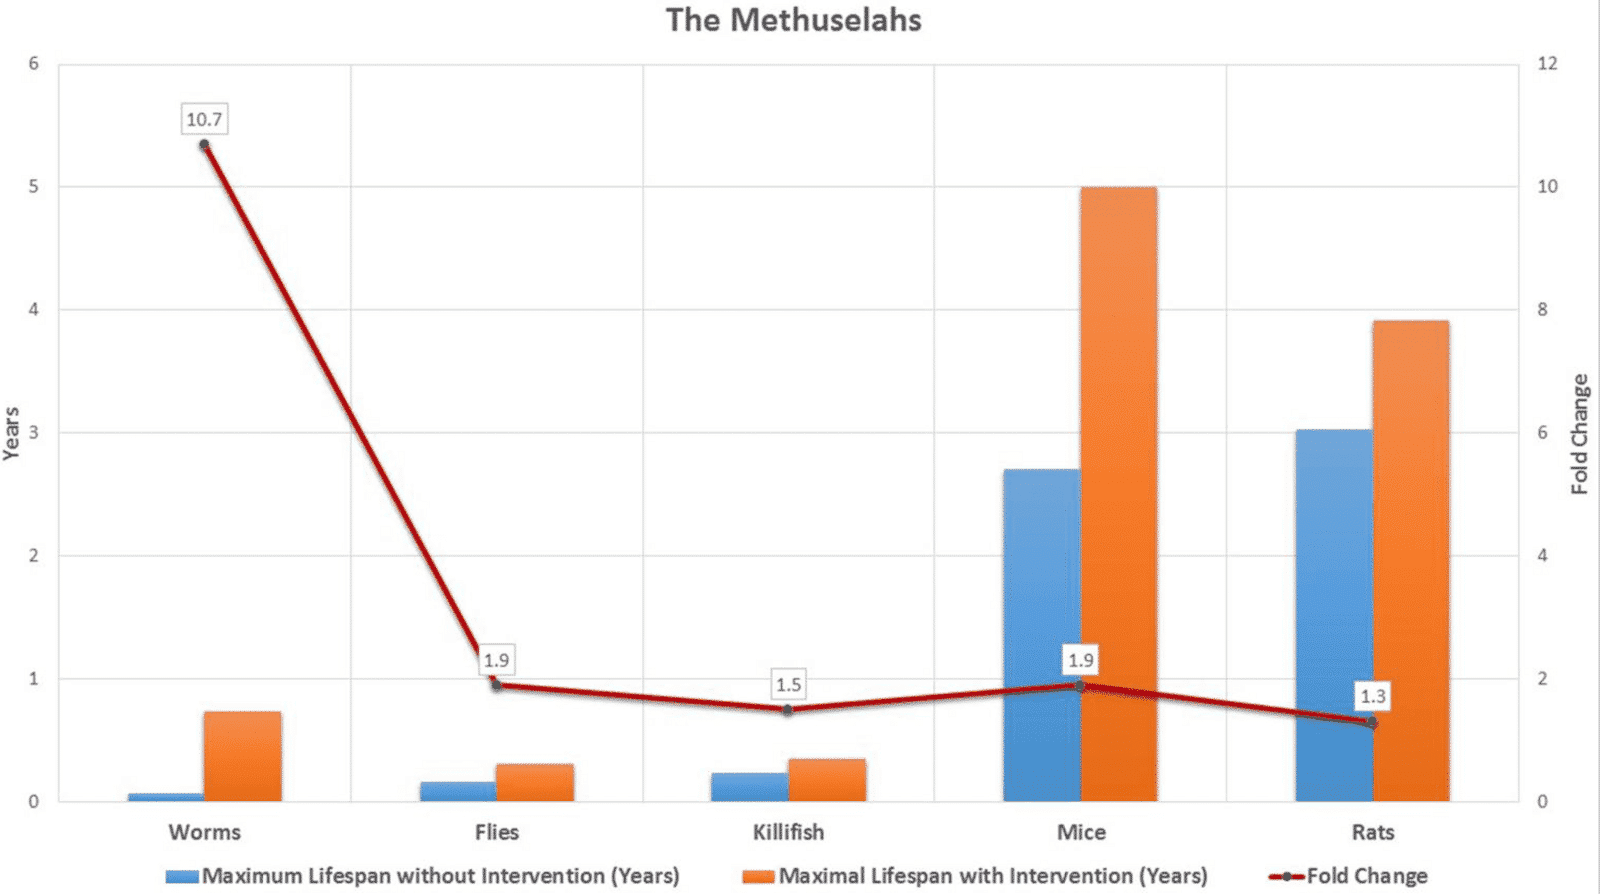
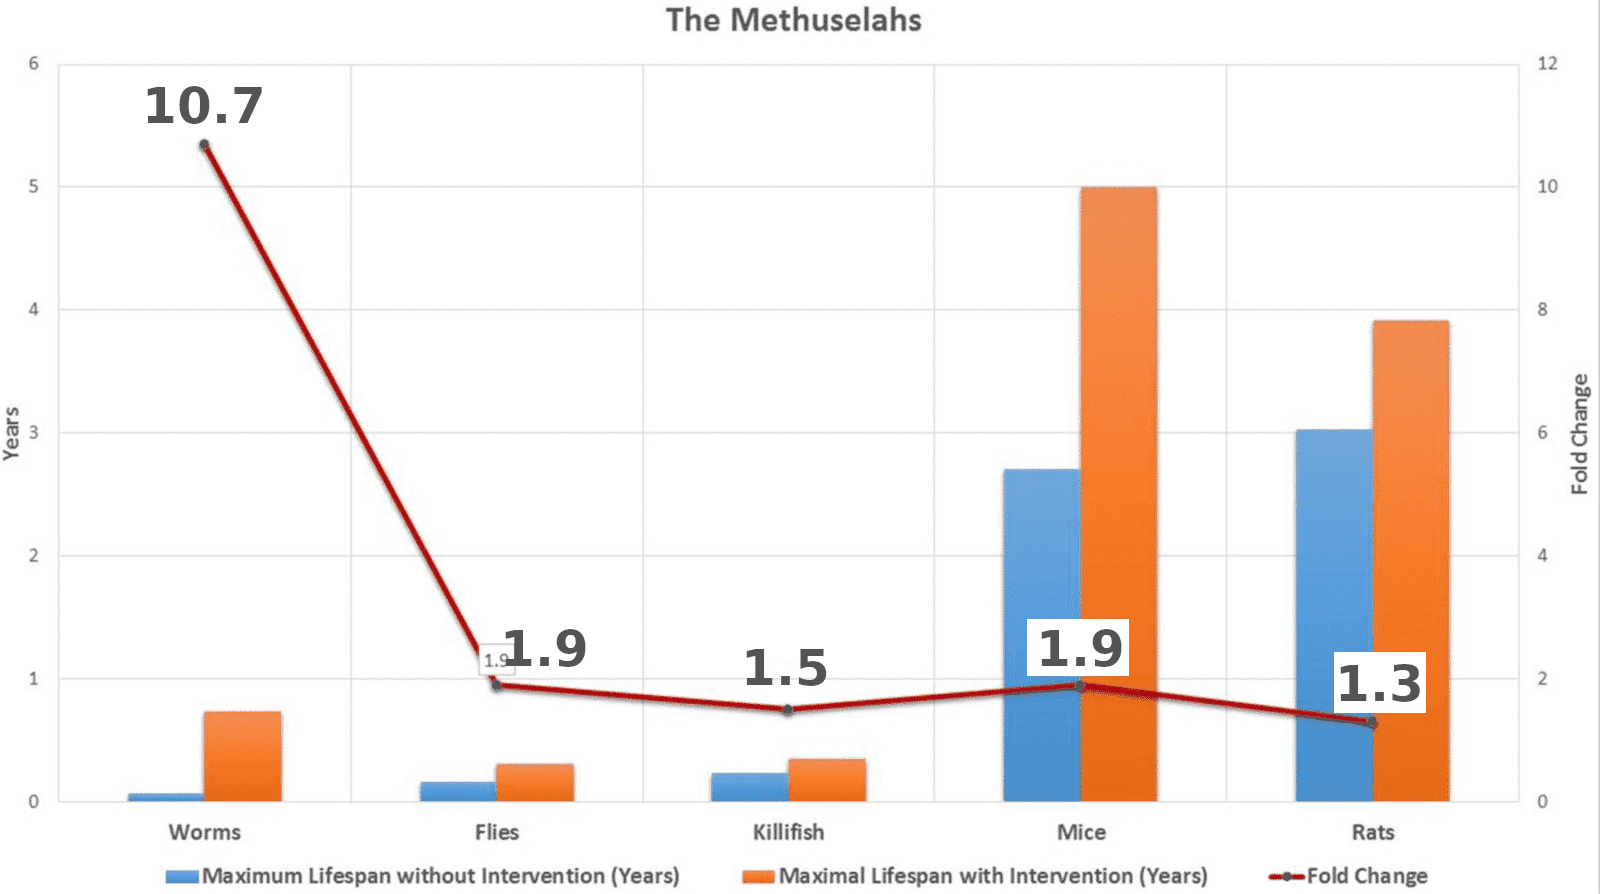
[anti-aging] restructured and incorporated feedback

diff --git a/anti-aging/chapters/additional.tex b/anti-aging/chapters/additional.tex
@@ -22,5 +22,172 @@
     repeated DNA damage, they age considerably faster. Same with knocking out SIRT1 and others
 \end{frame}
 
+\section{Common Pathways}
+
+\subsection{Effects of harsh conditions}
+
+\begin{frame}[c]{Life Expectancy after Cancer}
+    \large
+    \includegraphics[width=\textwidth]{all_cancers_LE} \\
+    \cite{botta2019changes}
+    \newline
+    \newline
+    \pause
+    Conclusion: Cancer causes the underlying \\ 'aging clock' to speed up \\
+    reformulate to indication or something
+\end{frame}
+
+\begin{frame}[c]{Life Expectancy with Diabetes}
+    \large
+    Life Expectancy is at least 10 years lower with Diabetes Type 1
+    \cite{livingstone2015estimated} and at least 5 years lower with Diabetes Type
+    2 \cite{untitled1:online}.
+    \newline
+    \newline
+    \pause
+    Conclusion: Diabetes causes the underlying \\ 'aging clock' to speed up
+\end{frame}
+
+
+\begin{frame}[c]{Life Expectancy under Physiological Stress}
+    \large
+    \begin{aquote}{John S Wentworth \cite{Homeosta76:online}}
+    There's a qualitative general pattern that various kinds of physiological
+        stress - exposure to radiation or harsh chemicals (including smoking),
+        chronic infection, malnutrition, sleep deprivation, etc - tend to
+        accelerate aging.
+    \end{aquote}
+    find papers showing that these things cause hallmarks of aging to deteriorate
+\end{frame}
+
+
+\subsection{Diseases of Aging}
+
+\begin{frame}[c]{Similarities of Diseases of Aging}
+    \large
+    \cite{CorePath13:online}
+    At the cellular level:
+    \begin{itemize}[<+(1)->]
+        \item Decrease in cell count
+        \item Increase in damaged proteins/DNA/fats
+        \item Inflammation
+    \end{itemize}
+    \pause
+
+    Roughly this pattern for:
+    \begin{multicols}{2}
+    \begin{itemize}[<+(1)->]
+        \item Alzheimers
+        \item Arthritis
+        \item Atherosclerosis
+        \item Muscle loss
+        \item Osteoporosis
+        \item Many more
+    \end{itemize}
+    \end{multicols}
+\end{frame}
+
+\begin{frame}[c]{Existence proof for common pathways}
+    \large
+    \begin{aquote}{John S Wentworth}
+        someone who has one severe illness early is likely to have others
+    \end{aquote}
+
+    \pause
+    Most severe illnesses cause the 'aging clock' to speed up. Most diseases of
+    aging have similar characteristics. This is direct evidence that there are
+    {\em few underlying root causes} for aging.
+\end{frame}
+
+
+\section{Hallmarks of Aging}
+
+% \begin{frame}[c]{Overview of Core Mechanisms}
+%     \large
+%     \begin{itemize}[<+(1)->]
+%         \item DNA Damage
+%         \item Loss of Epigenetic Information
+%         \item Mitochondria low-energy state
+%         \item Telomere attrition
+%         \item Unsuppressed Transposons
+%     \end{itemize}
+% \end{frame}
+
+
+\subsection{DNA Damage}
+\begin{frame}[c]{DNA Damage}
+    \includegraphics[width=\textwidth]{dna_damage} \\
+    \cite{alhmoud2020dna}
+    % turnaround a few days at most, does not accumulate - but, increase causes aging, just isn't root cause
+    \pnote{Base excision repair (BER), nucleotide excision repair (NER), non-homologous end joining (NHEJ), reactive oxygen species (ROS) and DNA mismatch repair (MMR)}
+\end{frame}
+
+\subsection{Epigenetic information Loss}
+\begin{frame}[c]{Epigenetic Information Loss}
+    \includegraphics[width=\textwidth]{epigenetics_aging} \\
+    \cite{saul2021epigenetics} \\
+    % The state of an organisms epigenetics are a strong predictor for time to death \cite{lu2019dna} \\
+\end{frame}
+
+\subsection{Damaged Mitochondria}
+\begin{frame}[c]{Mitochondria}
+    Produce energy, explain fail-state and ROS
+\end{frame}
+
+\subsection{Telomeres}
+\begin{frame}[c]{Telomeres}
+    \includegraphics[width=\textwidth]{telomere_caps} \\
+    \cite{schmutz2016shelterin} \\
+\end{frame}
+
+\begin{frame}[c]{Telomere attrition}
+    \large
+    \begin{itemize}[<+(1)->]
+        \item Telomere length is only really relevant for stem cells, others don't divide
+        \item Telomerase is active in stem cells
+        \item True telomere damage cannot be repaired, so telomeres accumulate damage \cite{NintilTh68:online}
+        \item Short telomeres cause cells to induce apoptosis
+        \item So it's a good measure for total cell damage \cite{victorelli2017telomeres} 
+    \end{itemize}
+\end{frame}
+
+\subsection{Transposons}
+\begin{frame}[c]{Transposons}
+    \includegraphics[height=0.8\textheight]{transposon} \\
+    \pnote{
+    explain transposons quick \\
+    cause DNA damage, though rather additionally, as species without transposons also age \\
+    about 50\% of human dna are 'dead' (broken) transposons, about 100 (of 11 major families) are still active \\
+    they are suppressed most of the time, but 'let loose' a bit on other pressing matters (e.g. repairing dna damage) \\
+    try to find good pictures \\
+    mention that studies are being conducted currently \\
+}
+    \cite{walter2015transposon} \\
+    Also: mice from older fathers live shorter \cite{xie2018epigenetic}
+\end{frame}
+
+\subsection{Cell Senescence}
+
+\begin{frame}[c]{Cell Senescence}
+    sending out SASP \\
+    inflammation due to SASP \\
+    induce apoptosis themselves or wait to get removed by immune system \\
+    mice: about 8\% in young, 17\% in old \cite{folgueras2018mouse} \\
+\end{frame}
+
+
+\subsection{Timeframes}
+
+\begin{frame}[c]{Timeframes for Pathways}
+    \large
+    \begin{itemize}[<+(1)->]
+        \item DNA Damage: Repaired within Hours or faster \cite{frankenberg1989review}
+        \item Senescent Cells: Removed within Days \cite{karin2018senescent}
+        \item Epigenetic Markers: Varies, but most are replaced within Weeks \cite{ginno2020genome} \cite{yamagata2012rapid}
+    \end{itemize}
+    \pause
+    Conclusion: Either the amount of Damage/Senescent Cells increases or Reparation/Removal decreases
+\end{frame}
+
 
 \backupend

diff --git a/anti-aging/chapters/mechanisms-root-causes.tex b/anti-aging/chapters/mechanisms-root-causes.tex
@@ -1,79 +1,5 @@
-\subsection{Core Mechanisms}
-
-% \begin{frame}[c]{Overview of Core Mechanisms}
-%     \large
-%     \begin{itemize}[<+(1)->]
-%         \item DNA Damage
-%         \item Loss of Epigenetic Information
-%         \item Mitochondria low-energy state
-%         \item Telomere attrition
-%         \item Unsuppressed Transposons
-%     \end{itemize}
-% \end{frame}
-
-\begin{frame}[c]{DNA Damage}
-    \includegraphics[width=\textwidth]{dna_damage} \\
-    \cite{alhmoud2020dna}
-    % turnaround a few days at most, does not accumulate - but, increase causes aging, just isn't root cause
-    \pnote{Base excision repair (BER), nucleotide excision repair (NER), non-homologous end joining (NHEJ), reactive oxygen species (ROS) and DNA mismatch repair (MMR)}
-\end{frame}
-
-\begin{frame}[c]{Epigenetic Information Loss}
-    \includegraphics[width=\textwidth]{epigenetics_aging} \\
-    \cite{saul2021epigenetics} \\
-    % The state of an organisms epigenetics are a strong predictor for time to death \cite{lu2019dna} \\
-\end{frame}
 
 
-\begin{frame}[c]{Mitochondria}
-    Produce energy, explain fail-state and ROS
-\end{frame}
-
-\begin{frame}[c]{Telomeres}
-    \includegraphics[width=\textwidth]{telomere_caps} \\
-    \cite{schmutz2016shelterin} \\
-\end{frame}
-
-\begin{frame}[c]{Telomere attrition}
-    \large
-    \begin{itemize}[<+(1)->]
-        \item Telomere length is only really relevant for stem cells, others don't divide
-        \item Telomerase is active in stem cells
-        \item True telomere damage cannot be repaired, so telomeres accumulate damage \cite{NintilTh68:online}
-        \item Short telomeres cause cells to induce apoptosis
-        \item So it's a good measure for total cell damage \cite{victorelli2017telomeres} 
-    \end{itemize}
-\end{frame}
-
-\begin{frame}[c]{Transposons}
-    explain transposons quick \\
-    cause DNA damage, though rather additionally, as species without transposons also age \\
-    about 50\% of human dna are 'dead' (broken) transposons, about 100 (of 11 major families) are still active \\
-    they are suppressed most of the time, but 'let loose' a bit on other pressing matters (e.g. repairing dna damage) \\
-    try to find good pictures \\
-    mention that studies are being conducted currently \\
-    mice from older fathers live shorter \cite{xie2018epigenetic}
-
-\end{frame}
-
-\begin{frame}[c]{Cell Senescence}
-    sending out SASP \\
-    inflammation due to SASP \\
-    induce apoptosis themselves or wait to get removed by immune system \\
-    mice: about 8\% in young, 17\% in old \cite{folgueras2018mouse} \\
-\end{frame}
-
-
-\begin{frame}[c]{Timeframes for Pathways}
-    \large
-    \begin{itemize}[<+(1)->]
-        \item DNA Damage: Repaired within Hours or faster \cite{frankenberg1989review}
-        \item Senescent Cells: Removed within Days \cite{karin2018senescent}
-        \item Epigenetic Markers: Varies, but most are replaced within Weeks \cite{ginno2020genome} \cite{yamagata2012rapid}
-    \end{itemize}
-    \pause
-    Conclusion: Either the amount of Damage/Senescent Cells increases or Reparation/Removal decreases
-\end{frame}
 
 
 \subsection{Assumed Root Causes}

diff --git a/anti-aging/chapters/aging.tex b/anti-aging/chapters/aging.tex
@@ -32,77 +32,4 @@
 \end{frame}
 
 
-% \subsection{Effects of harsh conditions}
-% 
-% \begin{frame}[c]{Life Expectancy after Cancer}
-%     \large
-%     \includegraphics[width=\textwidth]{all_cancers_LE} \\
-%     \cite{botta2019changes}
-%     \newline
-%     \newline
-%     \pause
-%     Conclusion: Cancer causes the underlying \\ 'aging clock' to speed up \\
-%     reformulate to indication or something
-% \end{frame}
-% 
-% \begin{frame}[c]{Life Expectancy with Diabetes}
-%     \large
-%     Life Expectancy is at least 10 years lower with Diabetes Type 1
-%     \cite{livingstone2015estimated} and at least 5 years lower with Diabetes Type
-%     2 \cite{untitled1:online}.
-%     \newline
-%     \newline
-%     \pause
-%     Conclusion: Diabetes causes the underlying \\ 'aging clock' to speed up
-% \end{frame}
-% 
-% 
-% \begin{frame}[c]{Life Expectancy under Physiological Stress}
-%     \large
-%     \begin{aquote}{John S Wentworth \cite{Homeosta76:online}}
-%     There's a qualitative general pattern that various kinds of physiological
-%         stress - exposure to radiation or harsh chemicals (including smoking),
-%         chronic infection, malnutrition, sleep deprivation, etc - tend to
-%         accelerate aging.
-%     \end{aquote}
-%     find papers showing that these things cause hallmarks of aging to deteriorate
-% \end{frame}
-% 
-% 
-% \subsection{Diseases of Aging}
-% 
-% \begin{frame}[c]{Similarities of Diseases of Aging}
-%     \large
-%     \cite{CorePath13:online}
-%     At the cellular level:
-%     \begin{itemize}[<+(1)->]
-%         \item Decrease in cell count
-%         \item Increase in damaged proteins/DNA/fats
-%         \item Inflammation
-%     \end{itemize}
-%     \pause
-% 
-%     Roughly this pattern for:
-%     \begin{multicols}{2}
-%     \begin{itemize}[<+(1)->]
-%         \item Alzheimers
-%         \item Arthritis
-%         \item Atherosclerosis
-%         \item Muscle loss
-%         \item Osteoporosis
-%         \item Many more
-%     \end{itemize}
-%     \end{multicols}
-% \end{frame}
-% 
-% \begin{frame}[c]{Existence proof for common pathways}
-%     \large
-%     \begin{aquote}{John S Wentworth}
-%         someone who has one severe illness early is likely to have others
-%     \end{aquote}
-% 
-%     \pause
-%     Most severe illnesses cause the 'aging clock' to speed up. Most diseases of
-%     aging have similar characteristics. This is direct evidence that there are
-%     {\em few underlying root causes} for aging.
-% \end{frame}
+

diff --git a/anti-aging/chapters/why-problem.tex b/anti-aging/chapters/why-problem.tex
@@ -5,6 +5,14 @@
     \large
     \includegraphics[width=\textwidth]{corona_death_rates} \\
     \cite{10.1111/acel.13230} \\
+\end{frame}
+
+
+\begin{frame}[c]{Treating Corona with anti-aging}
+    \large
+    % trim = l b r t
+    \includegraphics[width=\textwidth,clip,trim=170 180 0 50]{mice_corona} \\
+    \cite{camell2021senolytics} \\
     \pause
     Conclusion: They don't die due to Corona, they die due to old age!
 \end{frame}

diff --git a/anti-aging/chapters/necessary.tex b/anti-aging/chapters/necessary.tex
@@ -19,7 +19,7 @@
 
 \begin{frame}[c]{Extending Life in different animals}
     \includegraphics[width=\textwidth]{extending_life} \\
-    \cite{bulterijs2015time} Make numbers more readable
+    \cite{bulterijs2015time}
 \end{frame}
 
 
